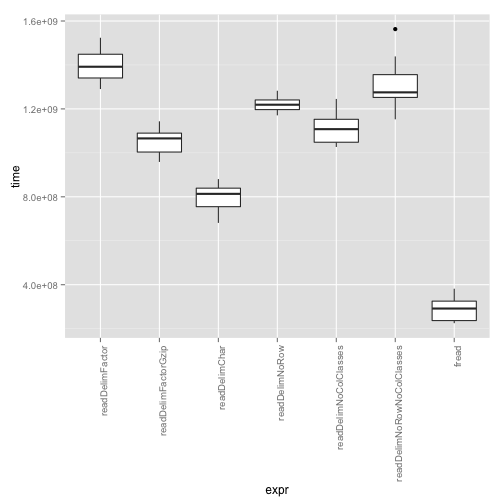
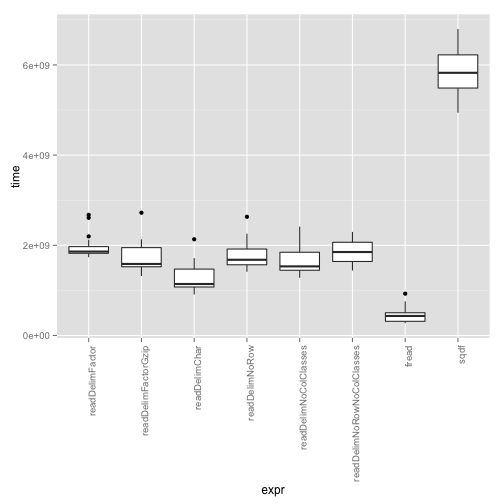
updated markdown benchmark

diff --git a/benchmarks/r-load-files/r-load.md b/benchmarks/r-load-files/r-load.md
@@ -14,6 +14,10 @@ library(ggplot2)
 library(data.table)
 ```
 
+```
+## data.table 1.9.2  For help type: help("data.table")
+```
+
 ## Create Test Data
 
 For our benchmarking, we'll create a file that's in a format similar to the
@@ -154,8 +158,37 @@ res <- microbenchmark(
 					readDelimNoColClasses={o <- readDelimNoColClasses(file, nlines)},
 					readDelimNoRowNoColClasses={o <- readDelimNoRowNoColClasses(file)},
 					fread={o <- fread(file)},
+					sqdf={
+						f <- file(file)
+						o <- sqldf("select * from f", dbname = tempfile(),
+											 file.format=list(header=TRUE, row.names=FALSE, sep="\t"))
+					},
 					times=20L)
+```
 
+```
+## Warning: closing unused connection 4 (fake-hapmap.txt)
+## Warning: closing unused connection 6 (fake-hapmap.txt)
+## Warning: closing unused connection 4 (fake-hapmap.txt)
+## Warning: closing unused connection 6 (fake-hapmap.txt)
+## Warning: closing unused connection 4 (fake-hapmap.txt)
+## Warning: closing unused connection 6 (fake-hapmap.txt)
+## Warning: closing unused connection 4 (fake-hapmap.txt)
+## Warning: closing unused connection 6 (fake-hapmap.txt)
+## Warning: closing unused connection 4 (fake-hapmap.txt)
+## Warning: closing unused connection 6 (fake-hapmap.txt)
+## Warning: closing unused connection 4 (fake-hapmap.txt)
+## Warning: closing unused connection 6 (fake-hapmap.txt)
+## Warning: closing unused connection 4 (fake-hapmap.txt)
+## Warning: closing unused connection 6 (fake-hapmap.txt)
+## Warning: closing unused connection 4 (fake-hapmap.txt)
+## Warning: closing unused connection 6 (fake-hapmap.txt)
+## Warning: closing unused connection 4 (fake-hapmap.txt)
+## Warning: closing unused connection 4 (fake-hapmap.txt)
+## Warning: closing unused connection 6 (fake-hapmap.txt)
+```
+
+```r
 p <- ggplot(res) + geom_boxplot(aes(x=expr, y=time))
 p + theme(axis.text.x = element_text(angle = 90, hjust = 1))
 ```
